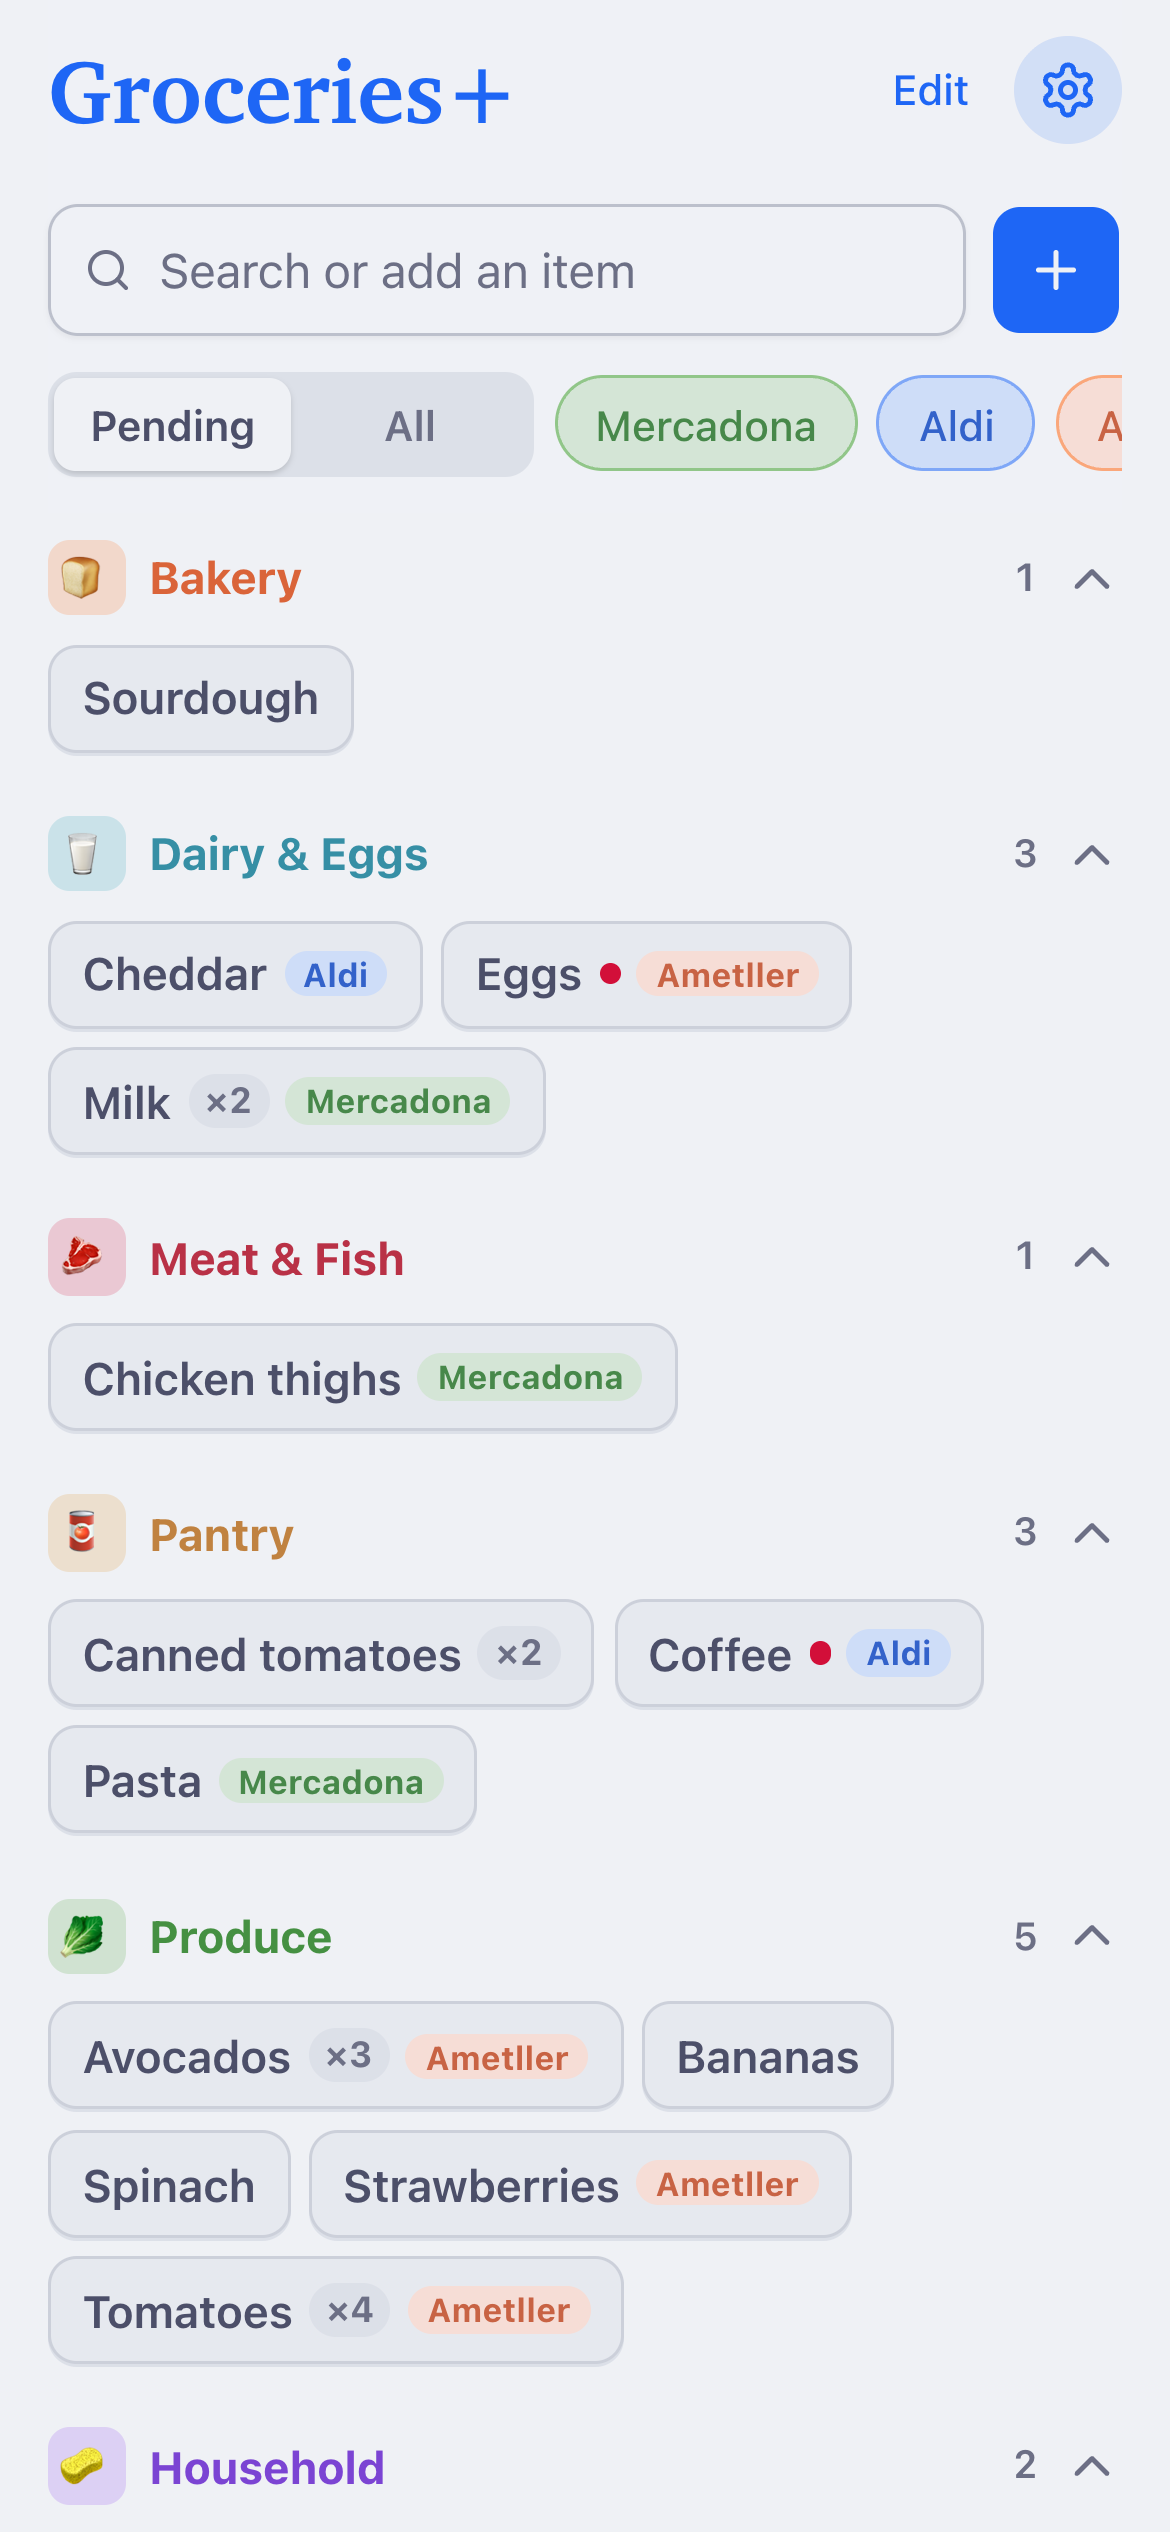
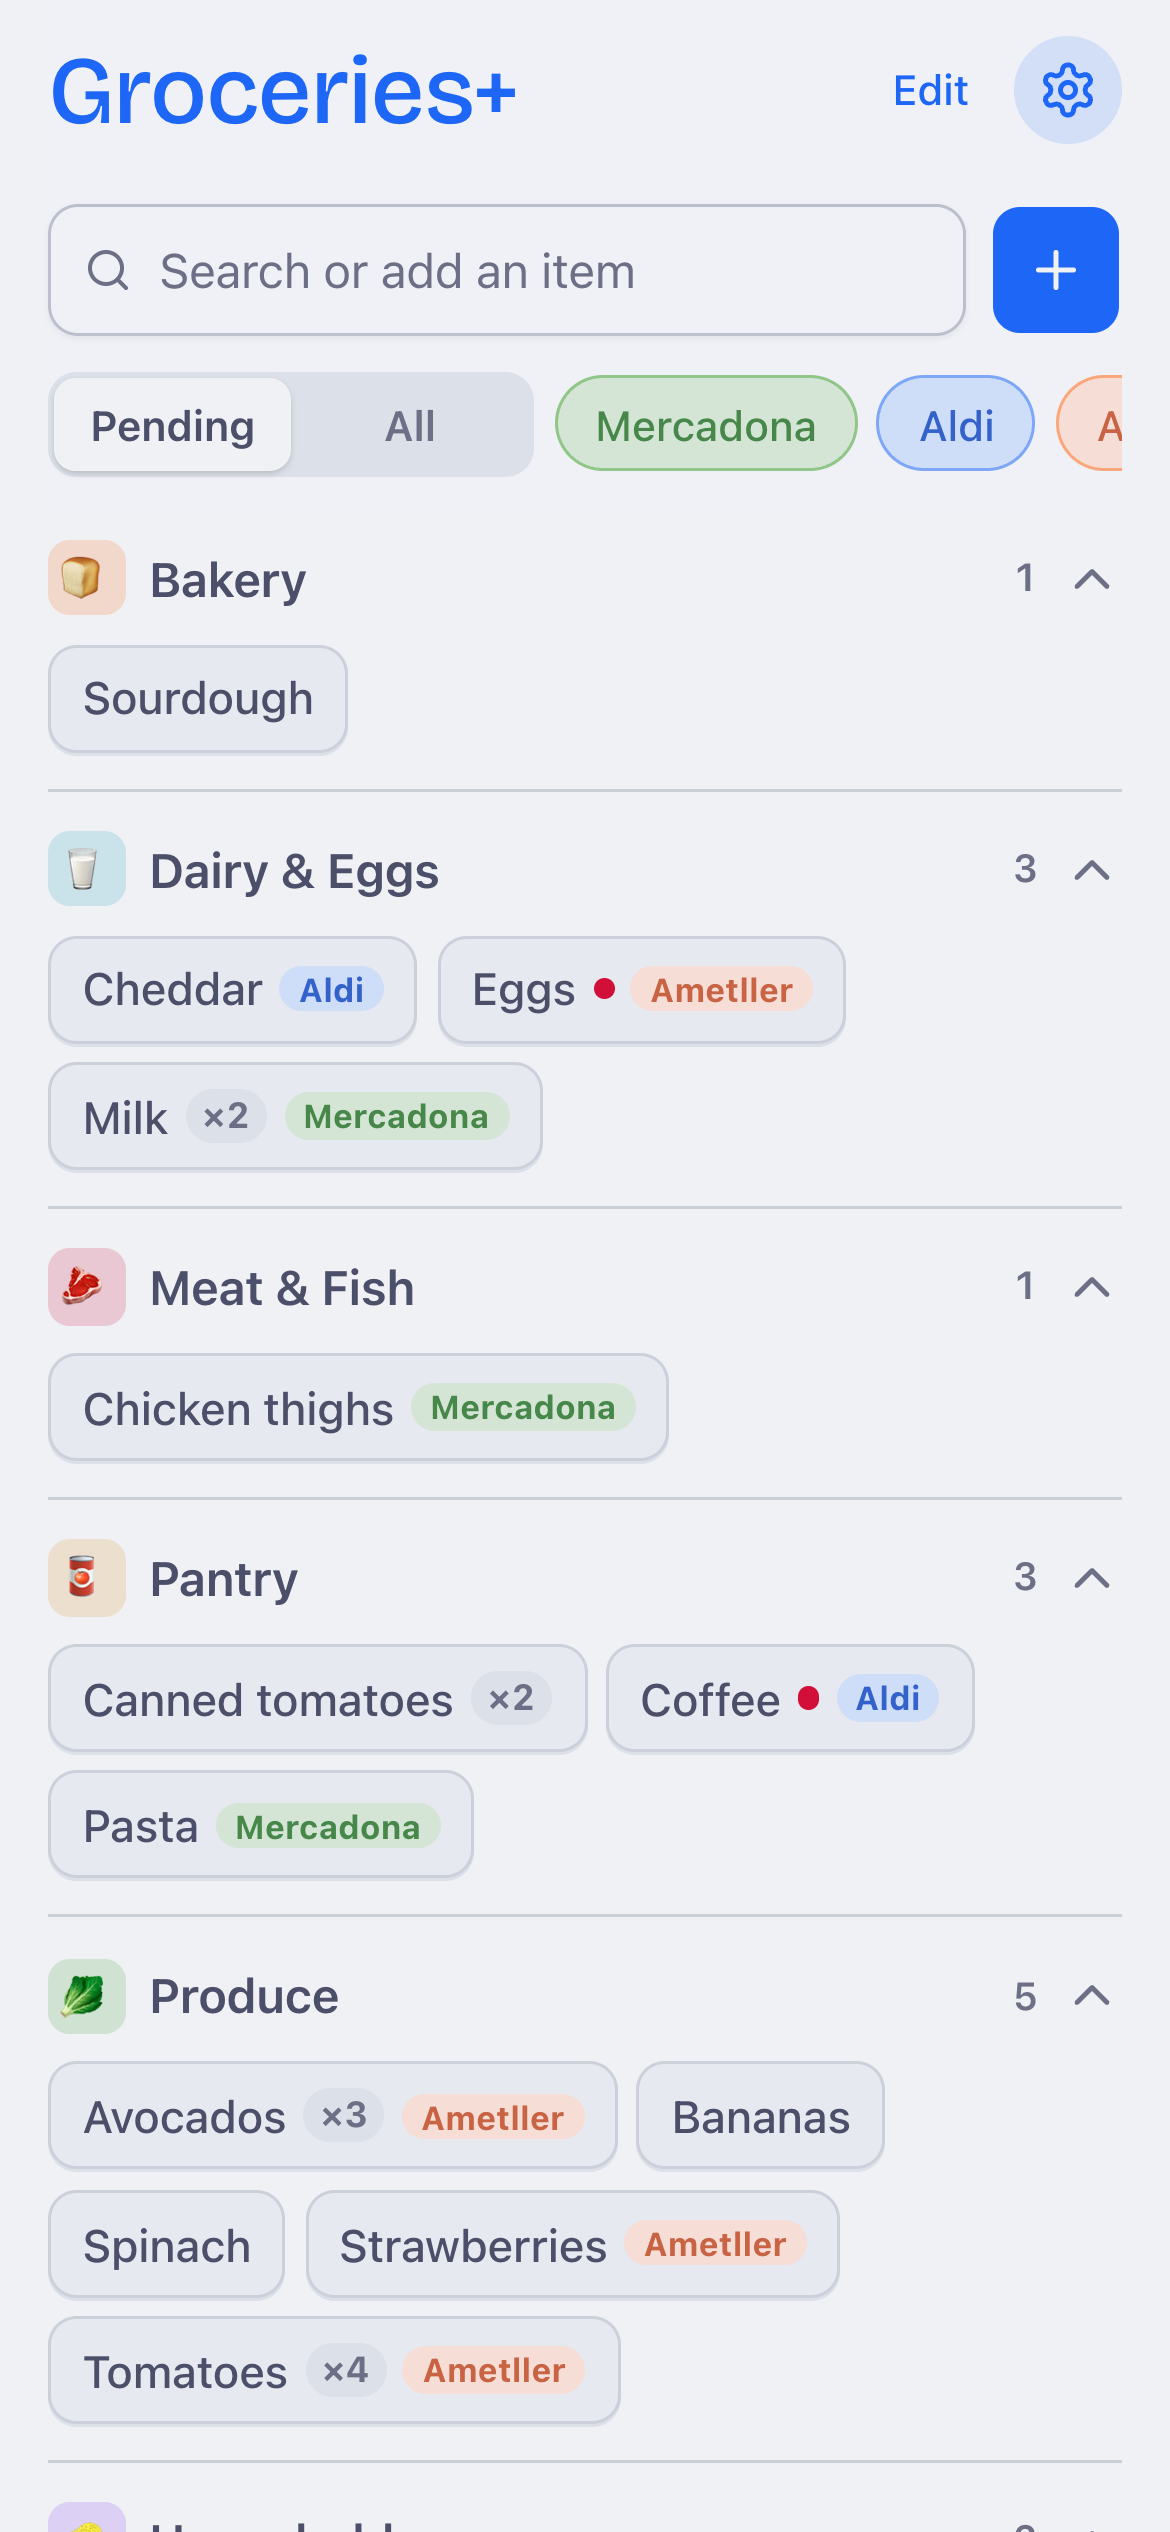
Reorder categories in Edit mode; refresh README and screenshots
Up/down arrows on each category header; they step over hidden groups so
every move is visible. Existing lists keep their A-Z order once, then the
saved order wins. The item editor's category dropdown follows it too.

Screenshots now show Catppuccin light, Neutral dark and Edit mode.

diff --git a/app.js b/app.js
@@ -1,4 +1,4 @@
-import { emptyState, visibleItems, groupByCategory, validateName, findByName, toggle, parseBackup, COLORS, nextColor } from "./logic.js";
+import { move, emptyState, visibleItems, groupByCategory, validateName, findByName, toggle, parseBackup, COLORS, nextColor } from "./logic.js";
 
 const KEY = "groceries.v1";
 const NEW_CATEGORY = "__new";
@@ -131,6 +131,12 @@ function render() {
     return;
   }
 
+  // Arrows step over visible neighbours only, so a move is never invisible.
+  const shown = groups.filter((g) => g.category).map((g) => g.category.id);
+  const arrow = (category, delta, name, cls) => {
+    const to = shown[shown.indexOf(category.id) + delta];
+    return h("button", { class: "btn edit", "data-variant": "ghost", "data-size": "icon-sm", type: "button", "data-move-category": category.id, "data-to": to, disabled: !to, "aria-label": `Move ${category.name} ${delta < 0 ? "up" : "down"}` }, icon(name, cls));
+  };
   list.replaceChildren(
     ...groups.map(({ category, items }) => {
       const open = searching || (category ? category.open : state.prefs.uncategorizedOpen);
@@ -142,6 +148,8 @@ function render() {
           {},
           titleView(category?.name ?? "Uncategorized"),
           h("span", { class: "count" }, String(items.filter((i) => i.needed).length)),
+          category && arrow(category, -1, "chevron", "up"),
+          category && arrow(category, 1, "chevron"),
           category && h("button", { class: "btn edit", "data-variant": "ghost", "data-size": "icon-sm", type: "button", "data-edit-category": category.id, "aria-label": `Edit ${category.name}` }, icon("pencil")),
           icon("chevron", "chevron"),
         ),
@@ -230,7 +238,12 @@ list.addEventListener("contextmenu", (e) => {
 list.addEventListener("click", (e) => {
   const tile = e.target.closest("[data-item]");
   const catBtn = e.target.closest("[data-edit-category]");
+  const moveBtn = e.target.closest("[data-move-category]");
   if (tile && !pressed) editMode ? openItemDialog(state.items.find((i) => i.id === tile.dataset.item)) : toggleTile(tile);
+  if (moveBtn) {
+    e.preventDefault(); // don't also toggle the <details>
+    update((s) => move(s.categories, moveBtn.dataset.moveCategory, moveBtn.dataset.to));
+  }
   if (catBtn) {
     e.preventDefault(); // don't also toggle the <details>
     openCategoryDialog(state.categories.find((c) => c.id === catBtn.dataset.editCategory));
@@ -317,10 +330,9 @@ function openItemDialog(item, name = "") {
   const f = itemForm.elements;
   $("#item-title").textContent = item ? "Edit item" : "Add item";
   f.name.value = item?.name ?? name;
-  const byName = (a, b) => a.name.localeCompare(b.name);
   f.category.replaceChildren(
     h("option", { value: "" }, "None"),
-    ...[...state.categories].sort(byName).map((c) => h("option", { value: c.id }, c.name)),
+    ...state.categories.map((c) => h("option", { value: c.id }, c.name)),
     h("option", { value: NEW_CATEGORY }, "New category…"),
   );
   f.category.value = item?.categoryId ?? "";

diff --git a/logic.js b/logic.js
@@ -5,7 +5,7 @@ export const emptyState = () => ({
   items: [],
   categories: [],
   tags: [],
-  prefs: { showAll: false, uncategorizedOpen: true, lastExport: null, theme: "system", palette: "catppuccin" },
+  prefs: { showAll: false, uncategorizedOpen: true, lastExport: null, theme: "system", palette: "catppuccin", categoriesOrdered: true },
 });
 
 // Case- and accent-insensitive: "atun" matches "Atún".
@@ -27,9 +27,9 @@ export function visibleItems(state, query = "", tagId = null) {
 // First color the list doesn't use yet, so a new tag or category differs from the rest until all 14 are taken.
 export const nextColor = (list) => COLORS.find((c) => !list.some((x) => x.color === c)) ?? COLORS[list.length % COLORS.length];
 
-// Uncategorized first, then categories A→Z. Empty groups dropped. Unknown categoryId → uncategorized.
+// Uncategorized first, then categories in their saved order. Empty groups dropped. Unknown categoryId → uncategorized.
 export function groupByCategory(items, categories) {
-  const groups = [{ category: null, items: [] }, ...[...categories].sort(byName).map((category) => ({ category, items: [] }))];
+  const groups = [{ category: null, items: [] }, ...categories.map((category) => ({ category, items: [] }))];
   const byId = new Map(groups.map((g) => [g.category?.id ?? null, g]));
   for (const item of items) (byId.get(item.categoryId) ?? groups[0]).items.push(item);
   return groups.filter((g) => g.items.length).map((g) => ({ ...g, items: g.items.sort(byName) }));
@@ -72,7 +72,15 @@ export function parseBackup(text) {
   // Backups from before category colors: give each category a distinct color.
   const categories = [];
   for (const c of data.categories) categories.push({ ...c, color: COLORS.includes(c.color) ? c.color : nextColor(categories) });
+  // Before manual ordering, categories showed A→Z. Sort once so old lists look the same.
+  if (!data.prefs?.categoriesOrdered) categories.sort(byName);
   const tagIds = new Set(tags.map((t) => t.id));
   const items = data.items.map((i) => ({ ...i, tagIds: Array.isArray(i.tagIds) ? i.tagIds.filter((id) => tagIds.has(id)) : [] }));
   return { ...base, ...data, items, categories, tags, prefs: { ...base.prefs, ...data.prefs } };
+}
+
+// Moves the entry with `id` to where `toId` sits: after it when moving down, before it when moving up.
+export function move(list, id, toId) {
+  const to = list.findIndex((x) => x.id === toId);
+  list.splice(to, 0, ...list.splice(list.findIndex((x) => x.id === id), 1));
 }

diff --git a/style.css b/style.css
@@ -203,6 +203,8 @@ button.tag[aria-pressed="true"] { background: var(--c); border-color: var(--c); 
 .group .edit { display: none; color: var(--muted-foreground); }
 .group .edit svg { width: 1rem; height: 1rem; }
 .editing .group .edit { display: inline-flex; }
+.group .edit:disabled { opacity: .3; }
+.group .up { rotate: 180deg; }
 
 .count { color: var(--muted-foreground); font-size: .8125rem; font-weight: 600; font-variant-numeric: tabular-nums; }
 

diff --git a/sw.js b/sw.js
@@ -1,6 +1,6 @@
 // Offline cache, stale-while-revalidate: answer from cache, refresh it in the background.
 // A deploy shows up on the second launch. Bump VERSION to drop the old cache outright.
-const VERSION = "v11";
+const VERSION = "v12";
 const SHELL = [
   "./",
   "index.html",

diff --git a/README.md b/README.md
@@ -10,9 +10,9 @@
 </p>
 
 <p align="center">
-  <img src="screenshots/pending-light.png" width="260" alt="Pending view, light theme">
-  <img src="screenshots/all-dark.png" width="260" alt="All items, dark theme">
-  <img src="screenshots/edit-dark.png" width="260" alt="Editing an item, dark theme">
+  <img src="screenshots/pending-light.png" width="260" alt="Pending view, Catppuccin light">
+  <img src="screenshots/all-dark.png" width="260" alt="All items, Neutral dark">
+  <img src="screenshots/edit-dark.png" width="260" alt="Edit mode, Catppuccin dark">
 </p>
 
 ---
@@ -26,14 +26,14 @@ Keep one list of everything you buy. Each item is a toggle: on when you need it,
 - **Search or add in one field.** Type to filter; case and accents are ignored, so "atun" finds "Atún". Press Enter to add what isn't there yet.
 - **Toggle tiles.** Tap an item to switch it on or off. Tiles wrap, so a whole store fits on one screen.
 - **Pending and All views.** See only what you need, or your whole catalog. In All, off items show as dashed outlines.
-- **Edit by long-press.** Hold a tile to edit it, or tap **Edit** and then tap any tile or category.
-- **Categories.** Group items by aisle. Each category has a color. Collapse the ones you don't need.
+- **Edit by long-press.** Hold a tile to edit it. Or tap **Edit**, then tap any tile, or use a category's pencil and arrows.
+- **Categories.** Group items by aisle. Each gets a colored emoji badge. Collapse the ones you don't need. In Edit mode, reorder them to match your route through the store.
 - **Tags.** Mark items with colored tags, such as the store you buy them at. Tap a tag to show only its items. Reorder tags in Settings.
 - **Quantities, important items and one-time items.** A red dot marks important items. Sparkles mark one-time items, which disappear once you tap them off.
 - **Works offline.** A service worker caches the whole app.
 - **Private by design.** No account, no server, no tracking. Your list stays in your browser.
 - **Export and import.** Back up your list as JSON, or move it to another device.
-- **Light and dark themes, two styles.** Catppuccin (Latte and Macchiato) or a plain black-and-white Neutral style. Follows your system, or pick in Settings.
+- **Light and dark themes, two styles.** Catppuccin (Latte and Macchiato) or a plain Neutral style: white, or soft near-black. Follows your system, or pick in Settings.
 
 ## Install on iPhone
 
